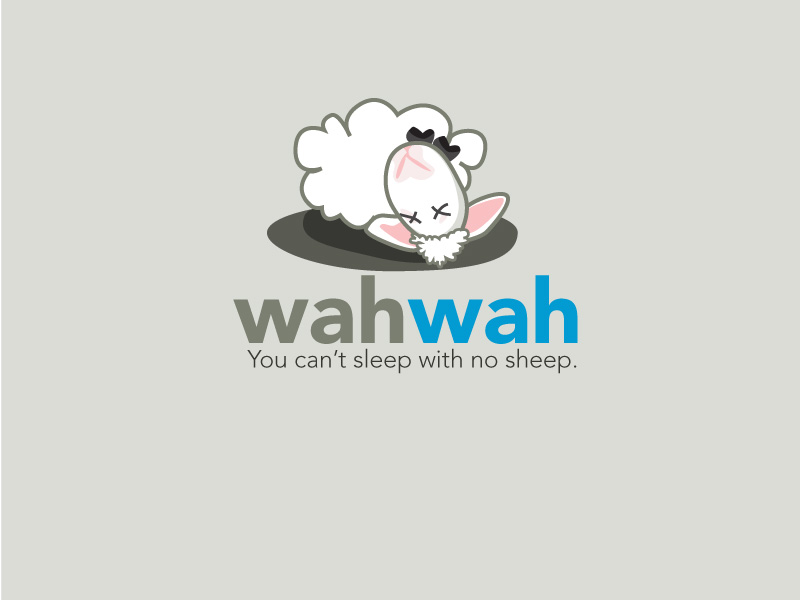
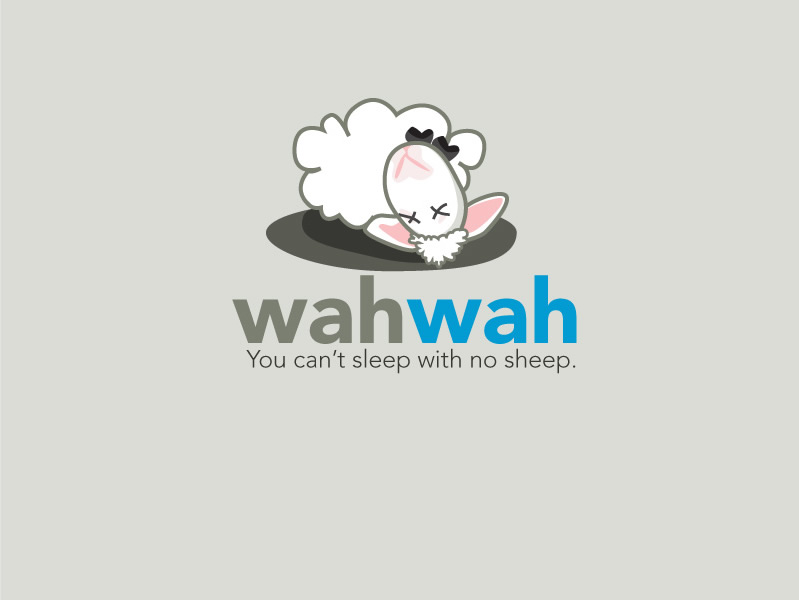
Made the error pages look a bit better

diff --git a/public/500.html b/public/500.html
@@ -1,30 +1,16 @@
-<!DOCTYPE html PUBLIC "-//W3C//DTD XHTML 1.0 Transitional//EN"
-       "http://www.w3.org/TR/xhtml1/DTD/xhtml1-transitional.dtd">
-
+<!DOCTYPE html PUBLIC "-//W3C//DTD XHTML 1.0 Strict//EN" "http://www.w3.org/TR/xhtml1/DTD/xhtml1-strict.dtd">
 <html xmlns="http://www.w3.org/1999/xhtml" xml:lang="en" lang="en">
-
 <head>
-  <meta http-equiv="content-type" content="text/html; charset=UTF-8" />
-  <title>We're sorry, but something went wrong (500)</title>
-	<style type="text/css">
-		body { background-color: #fff; color: #666; text-align: center; font-family: arial, sans-serif; }
-		div.dialog {
-			width: 25em;
-			padding: 0 4em;
-			margin: 4em auto 0 auto;
-			border: 1px solid #ccc;
-			border-right-color: #999;
-			border-bottom-color: #999;
-		}
-		h1 { font-size: 100%; color: #f00; line-height: 1.5em; }
-	</style>
+	<meta http-equiv="content-type" content="text/html; charset=utf-8" />
+	<title>We're sorry, but something went wrong (500)</title>
+	<link rel="stylesheet" href="stylesheets/errorpages.css" type="text/css" />
 </head>
 
 <body>
-  <!-- This file lives in public/500.html -->
+  <!-- This file lives in public/404.html -->
+  <div class="dialog">
     <h1>We're sorry, but something terribly went wrong.</h1>
     <p>We've been notified about this issue and we'll take a look at it shortly.</p>
-    <p><%= image_tag "wahwah.jpg", :alt => "Fail."%>
-</p>  </div>
+  </div>
 </body>
 </html>

diff --git a/public/404.html b/public/404.html
@@ -1,23 +1,9 @@
-<!DOCTYPE html PUBLIC "-//W3C//DTD XHTML 1.0 Transitional//EN"
-       "http://www.w3.org/TR/xhtml1/DTD/xhtml1-transitional.dtd">
-
+<!DOCTYPE html PUBLIC "-//W3C//DTD XHTML 1.0 Strict//EN" "http://www.w3.org/TR/xhtml1/DTD/xhtml1-strict.dtd">
 <html xmlns="http://www.w3.org/1999/xhtml" xml:lang="en" lang="en">
-
 <head>
-  <meta http-equiv="content-type" content="text/html; charset=UTF-8" />
-  <title>The page you were looking for doesn't exist (404)</title>
-	<style type="text/css">
-		body { background-color: #fff; color: #666; text-align: center; font-family: arial, sans-serif; }
-		div.dialog {
-			width: 25em;
-			padding: 0 4em;
-			margin: 4em auto 0 auto;
-			border: 1px solid #ccc;
-			border-right-color: #999;
-			border-bottom-color: #999;
-		}
-		h1 { font-size: 100%; color: #f00; line-height: 1.5em; }
-	</style>
+	<meta http-equiv="content-type" content="text/html; charset=utf-8" />
+	<title>The page you were looking for doesn't exist (404)</title>
+	<link rel="stylesheet" href="stylesheets/errorpages.css" type="text/css" />
 </head>
 
 <body>
@@ -25,7 +11,6 @@
   <div class="dialog">
     <h1>The page you were looking for doesn't exist.</h1>
     <p>You may have mistyped the address or the page may have moved.</p>
-    <p><%= image_tag "wahwah.jpg", :alt => "Fail."%></p>
   </div>
 </body>
 </html>

diff --git a/public/422.html b/public/422.html
@@ -1,27 +1,13 @@
-<!DOCTYPE html PUBLIC "-//W3C//DTD XHTML 1.0 Transitional//EN"
-       "http://www.w3.org/TR/xhtml1/DTD/xhtml1-transitional.dtd">
-
+<!DOCTYPE html PUBLIC "-//W3C//DTD XHTML 1.0 Strict//EN" "http://www.w3.org/TR/xhtml1/DTD/xhtml1-strict.dtd">
 <html xmlns="http://www.w3.org/1999/xhtml" xml:lang="en" lang="en">
-
 <head>
-  <meta http-equiv="content-type" content="text/html; charset=UTF-8" />
-  <title>The change you wanted was rejected (422)</title>
-	<style type="text/css">
-		body { background-color: #fff; color: #666; text-align: center; font-family: arial, sans-serif; }
-		div.dialog {
-			width: 25em;
-			padding: 0 4em;
-			margin: 4em auto 0 auto;
-			border: 1px solid #ccc;
-			border-right-color: #999;
-			border-bottom-color: #999;
-		}
-		h1 { font-size: 100%; color: #f00; line-height: 1.5em; }
-	</style>
+	<meta http-equiv="content-type" content="text/html; charset=utf-8" />
+	<title>The change you wanted was rejected (422)</title>
+	<link rel="stylesheet" href="stylesheets/errorpages.css" type="text/css" />
 </head>
 
 <body>
-  <!-- This file lives in public/422.html -->
+  <!-- This file lives in public/404.html -->
   <div class="dialog">
     <h1>The change you wanted was rejected.</h1>
     <p>Maybe you tried to change something you didn't have access to.</p>

diff --git a/public/stylesheets/errorpages.css b/public/stylesheets/errorpages.css
@@ -1,0 +1,19 @@
+body {
+	background-color: #DBDCD6;
+	color: #666;
+	text-align: center;
+	font-family: arial, sans-serif;
+	background: #DBDCD6 url(../images/wahwah.jpg) no-repeat scroll top center;
+}
+
+div.dialog {
+	width: 50em;
+	padding: 0 4em;
+	margin: 1.5em auto 0 auto;
+}
+
+h1 { 
+	font-size: 100%;
+	color: #039AD1;
+	line-height: 1.5em;
+}
